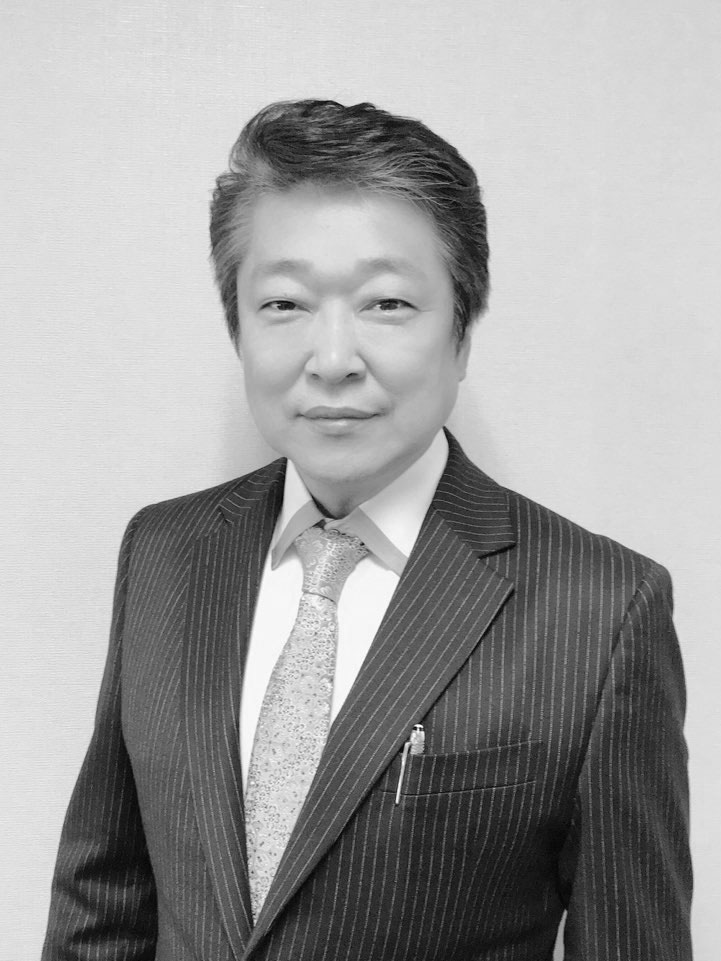
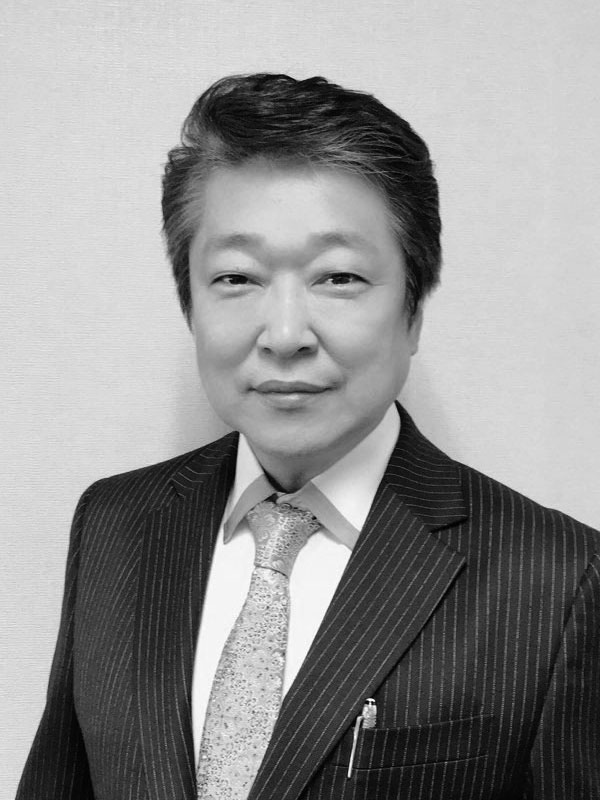
Fix manpower

diff --git a/css/sub.css b/css/sub.css
@@ -353,12 +353,12 @@
         .sub0 .content2_1 .layout_r {
             flex-direction: column;
             width: auto;
-            padding:16% 0 16% 16px;
+            padding:9% 0 10% 16px;
             text-align:left;
         }
         .sub0 .content2_1 .img_col {
             display: block;
-            max-width:252px;
+            max-width:120px;
         }
         .sub0 .content2_1 .img_row {
             display: none;
